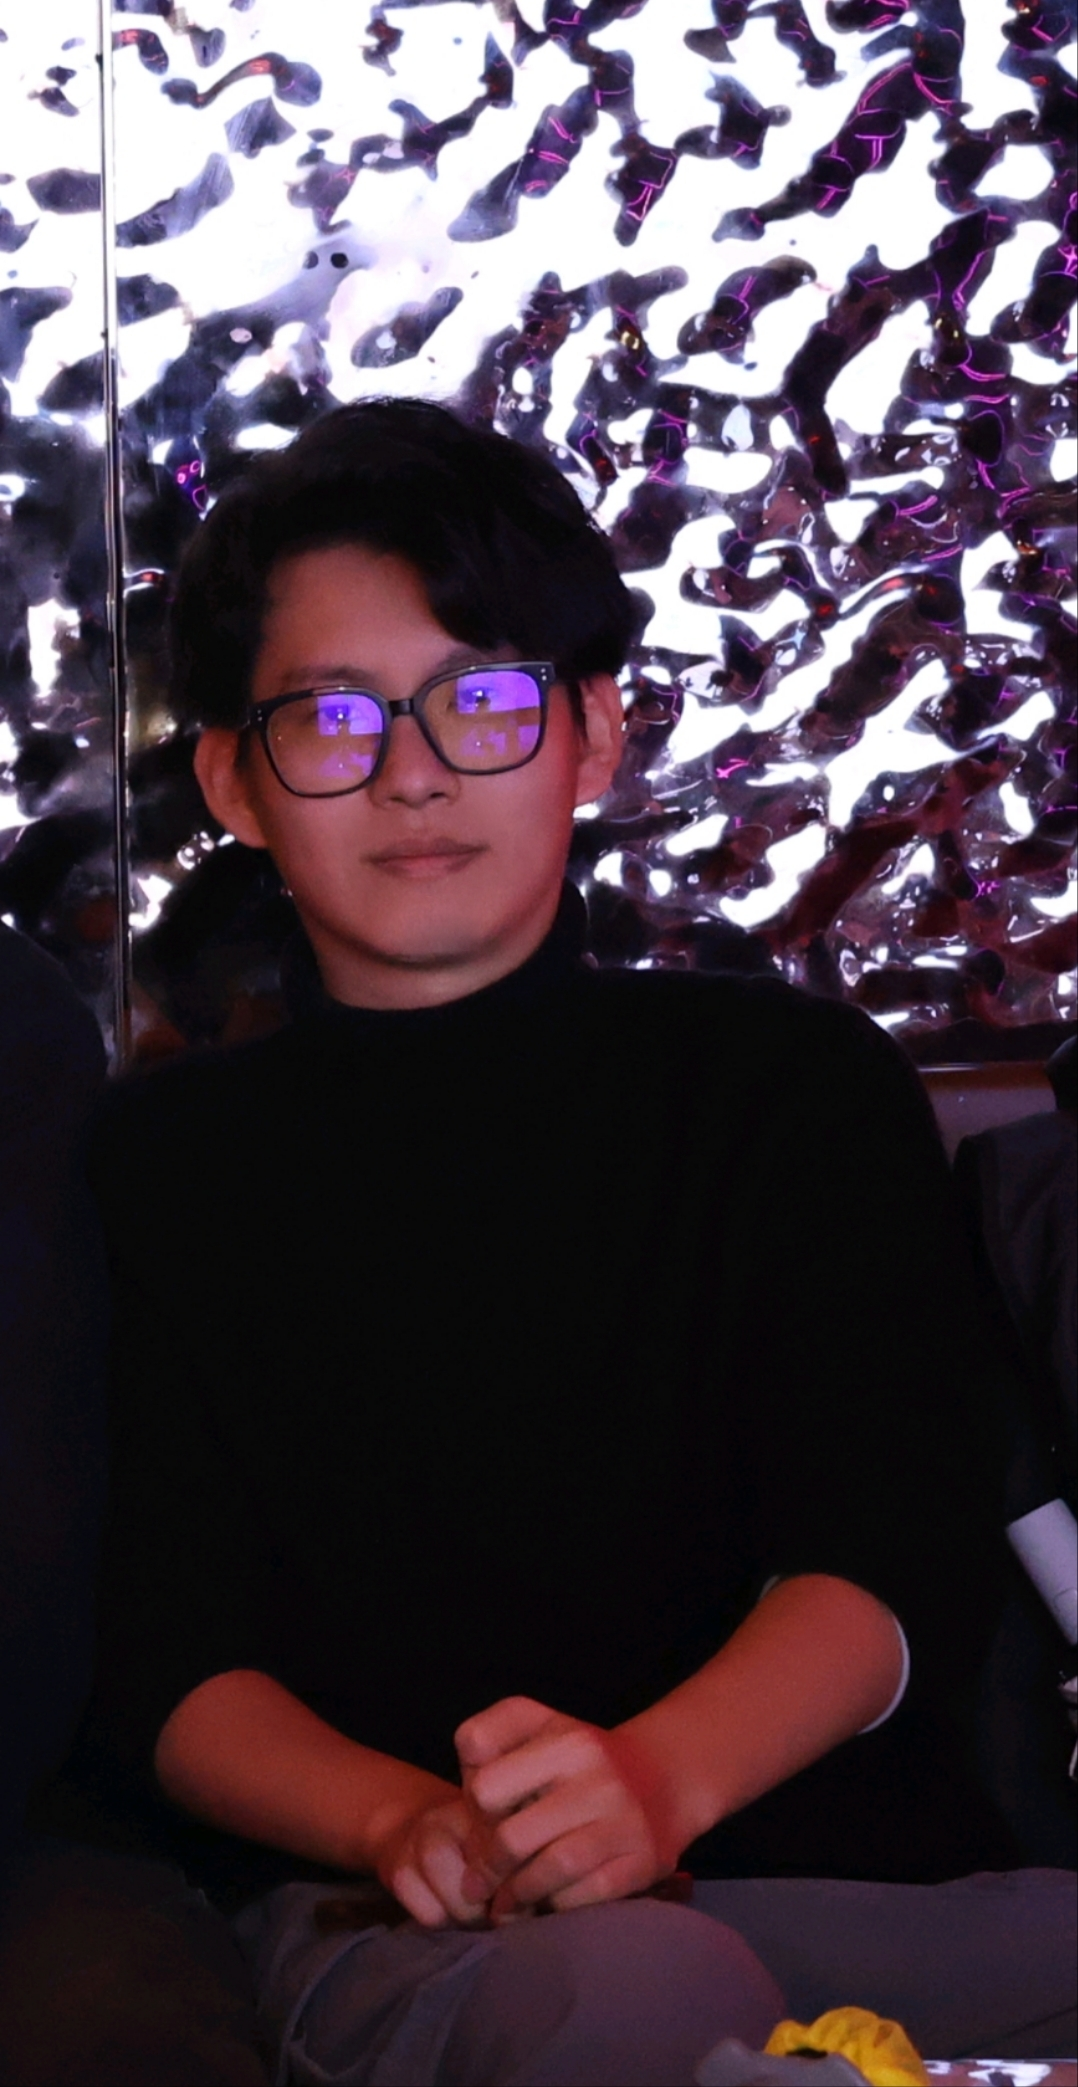
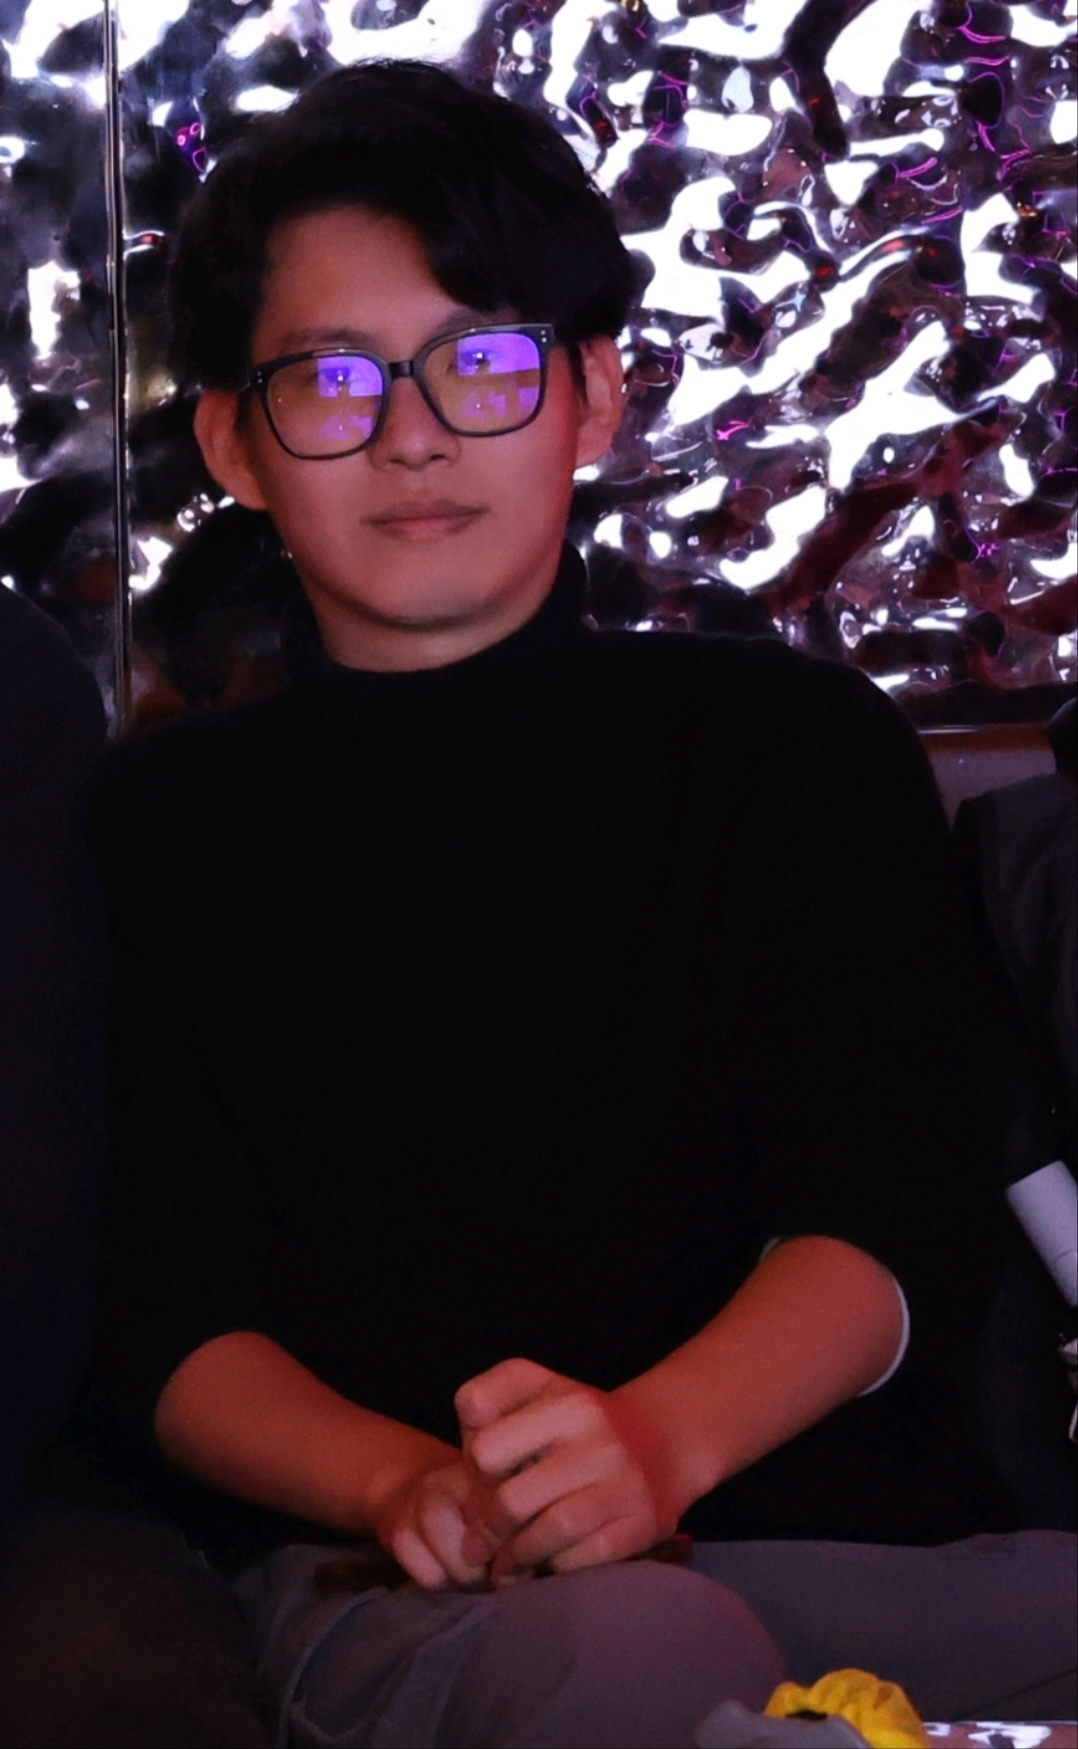
new

diff --git a/research.md b/research.md
@@ -5,8 +5,9 @@ excerpt: "Fu Lab -- Research"
 sitemap: false
 permalink: /research/
 ---
-
+<div align="center">
 # What we study
+</div>
 
 Cells actively interact with each other and the outside surroundings. Microscopic study at the cellular interface is critical in a wide variety of aspects, including host-pathogen interplay in infectious diseases, cell communications in biofilms, and electron/energy transfer in biotic-abiotic hybrid systems.  However, even cells with the exact same genotype have large heterogeneity in terms of metabolic states, protein expression levels and local microscopic environment, therefore bulk measurements can only report the ensemble average. In contrast, single-cell and single-molecule super-resolution techniques (awarded the [2014 Nobel Prize in Chemistry](https://www.nobelprize.org/prizes/chemistry/2014/summary/)) can well resolve this heterogeneity, hence uncover clearer, more realistic mechanisms.
 
@@ -24,13 +25,17 @@ To overcome the challenge of antibiotic resistance emerging in recent years, it 
 
 The importance of gut microbiome in relation to human health has been more and more recognized in recent years. Mammalian cells have developed numerous strategies to fight against pathogen invasion. One such strategy is called Nutritional Immunity, where metal ions are competed among host and pathogens. Previous studies on host-pathogen interactions and nutritional immunity are mostly done in vitro, in bulk or only with one type of cells, therefore imaging in relevant environment remains elusive. Our lab aims to explore how bacteria and mammalian cells respond to each other during infection process in a co-cultured configuration, which mimics the real gut microbiome environment. Specifically, how pathogens sense and responds to nutritional immunity, how biofilm initiates spatially and temporally will be studied. 
 
+<div align="center">
 ![]({{ site.url }}{{ site.baseurl }}/images/respic/ResearchFig2.jpg){: style="width: 30%; float: center; margin: 0px"}
+</div>
 
 **Multimodal imaging to study inorganic-microbial hybrid systems**
 
 Microbial electrosynthesis is becoming an attractive sustainable energy source in the past few decades, combining electricity from renewable energy with the microbes capable of synthesizing value-added chemicals. Understanding the electron transfer mechanisms in situ in the hybrid system is critical for eventually enhancing the total energy conversion efficiency. Yet, it is very challenging to study due to the heterogeneity of both inorganic materials and microbes, and the lack of appropriate tools. With an innovative novel multimodal imaging platform, our lab aims to investigate the underlying electron transfer mechanisms at the cellular interface with single-cell and sub-cell resolution. 
 
+<div align="center">
 ![]({{ site.url }}{{ site.baseurl }}/images/respic/ResearchFig3.jpg){: style="width: 30%; float: center; margin: 0px"}
+</div>
 
 ### ... and more.
 
@@ -38,6 +43,7 @@ Microbial electrosynthesis is becoming an attractive sustainable energy source i
 
 We mainly employ the powerful single-molecule super-resolution microscopy to look at numerous biological and material systems. Combining microscopy with many other approaches, such as dynamic tracking, genetic engineering, microfluidic device, nanomaterials, electrochemical measurement and image analysis development, we can achieve multifunctional imaging with higher sensitivity and resolution, revealing novel scientific information that is unknown before. 
 
-![]({{ site.url }}{{ site.baseurl }}/images/respic/Movie_with_masks_mag.mp4){: style="width: 30%; float: center; margin: 0px"}
+<div style="display: flex; justify-content: space-between;">
 ![]({{ site.url }}{{ site.baseurl }}/images/respic/PSF.jpg){: style="width: 10%; float: center; margin: 0px"}
 ![]({{ site.url }}{{ site.baseurl }}/images/respic/Summary.jpg){: style="width: 30%; float: right; margin: 0px"}
+</div>
